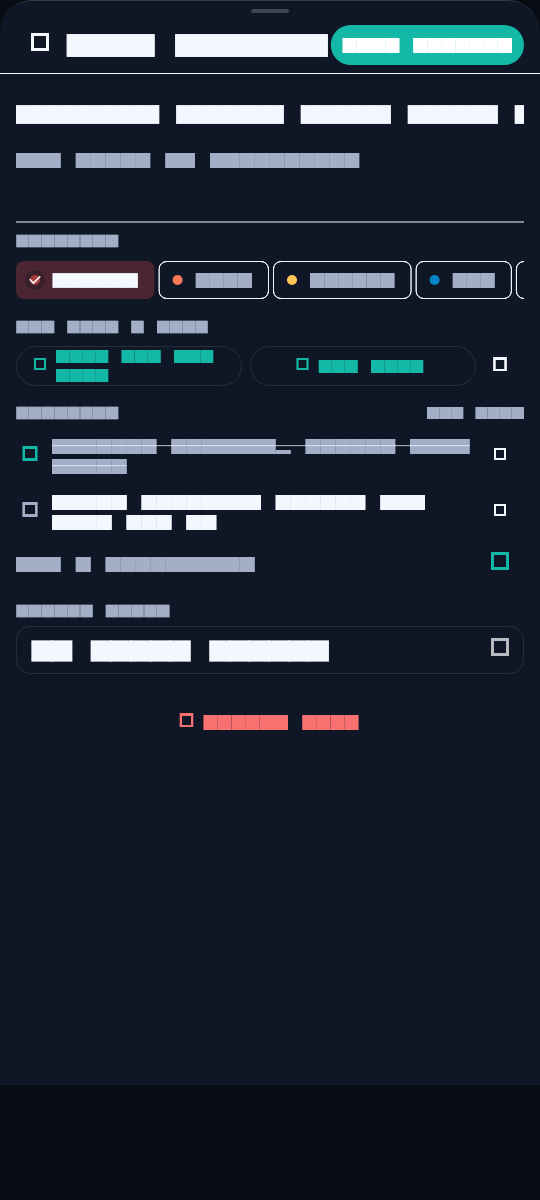
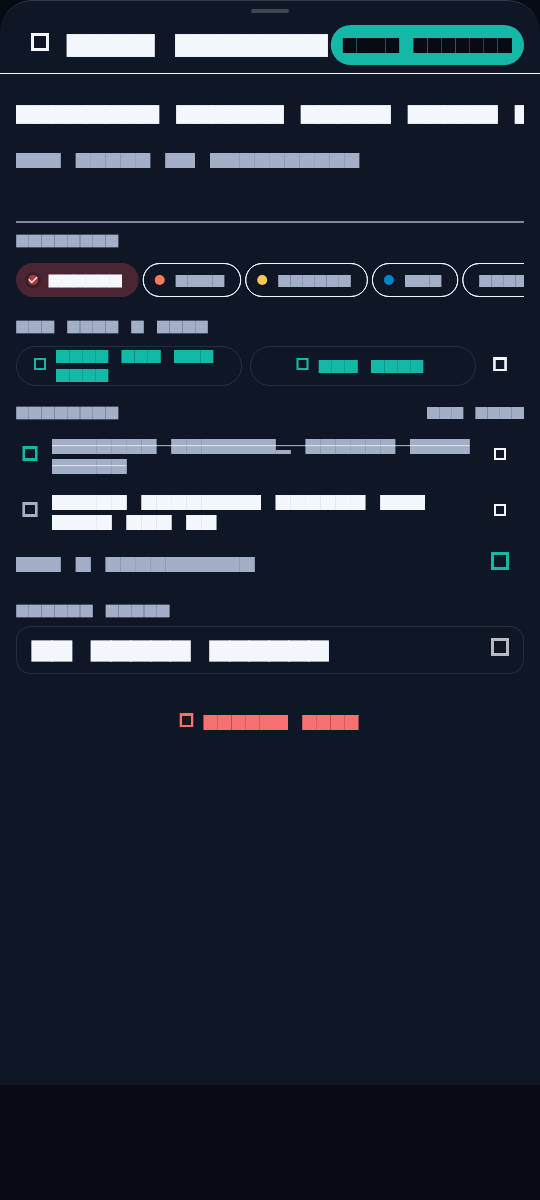
feat(release): Phase 6B release configuration, contrast audit, R8 setup, and release workflow

Changed region(s): [[0.0296, 0.2158, 0.9778, 0.2467], [0.7704, 0.0308, 0.9481, 0.0617], [0.6222, 0.0308, 0.7407, 0.0617]]

diff --git a/lib/features/settings/presentation/settings_screen.dart b/lib/features/settings/presentation/settings_screen.dart
@@ -88,7 +88,7 @@ class _SettingsScreenState extends ConsumerState<SettingsScreen> {
                   shape: RoundedRectangleBorder(borderRadius: BorderRadius.circular(PoswalRadii.capsule)),
                 ),
                 onPressed: () => Navigator.of(ctx).pop(true),
-                child: Text('Restore Safely', style: PoswalText.callout.copyWith(color: Colors.white, fontWeight: FontWeight.bold)),
+                child: Text('Restore Safely', style: PoswalText.callout.copyWith(color: PoswalColors.ink, fontWeight: FontWeight.bold)),
               ),
               const SizedBox(height: PoswalSpacing.sm),
               TextButton(
@@ -261,7 +261,7 @@ class _SettingsScreenState extends ConsumerState<SettingsScreen> {
                   Navigator.of(ctx).pop();
                   await _processImportContent(content);
                 },
-                child: Text(l10n?.inspectAndImport ?? 'Inspect & Import', style: PoswalText.callout.copyWith(color: Colors.white, fontWeight: FontWeight.bold)),
+                child: Text(l10n?.inspectAndImport ?? 'Inspect & Import', style: PoswalText.callout.copyWith(color: PoswalColors.ink, fontWeight: FontWeight.bold)),
               ),
               const SizedBox(height: PoswalSpacing.sm),
               TextButton(
@@ -318,7 +318,7 @@ class _SettingsScreenState extends ConsumerState<SettingsScreen> {
                   shape: RoundedRectangleBorder(borderRadius: BorderRadius.circular(PoswalRadii.capsule)),
                 ),
                 onPressed: () => Navigator.of(ctx).pop(true),
-                child: Text(l10n?.applyImport ?? 'Apply Import', style: PoswalText.callout.copyWith(color: Colors.white, fontWeight: FontWeight.bold)),
+                child: Text(l10n?.applyImport ?? 'Apply Import', style: PoswalText.callout.copyWith(color: PoswalColors.ink, fontWeight: FontWeight.bold)),
               ),
               const SizedBox(height: PoswalSpacing.sm),
               TextButton(
@@ -459,7 +459,7 @@ class _SettingsScreenState extends ConsumerState<SettingsScreen> {
                             selected: isSelected,
                             selectedColor: PoswalColors.teal.withValues(alpha: 0.3),
                             labelStyle: PoswalText.caption.copyWith(
-                              color: isSelected ? PoswalColors.teal : textMuted,
+                              color: isSelected ? (isDark ? PoswalColors.teal : PoswalColors.tealLight) : textMuted,
                               fontWeight: isSelected ? FontWeight.w700 : FontWeight.w500,
                             ),
                             onSelected: (_) => settingsNotifier.updateThemeMode(mode),
@@ -700,7 +700,7 @@ class _SettingsScreenState extends ConsumerState<SettingsScreen> {
                             label: Text(
                               lang.nativeName,
                               style: PoswalText.callout.copyWith(
-                                color: isSelected ? PoswalColors.teal : textMuted,
+                                color: isSelected ? (isDark ? PoswalColors.teal : PoswalColors.tealLight) : textMuted,
                                 fontWeight: isSelected ? FontWeight.w700 : FontWeight.w500,
                               ),
                             ),
@@ -764,14 +764,15 @@ class _SettingsScreenState extends ConsumerState<SettingsScreen> {
                               key: const ValueKey('backup_now_btn'),
                               style: FilledButton.styleFrom(
                                 backgroundColor: PoswalColors.teal,
+                                foregroundColor: PoswalColors.ink,
                                 padding: const EdgeInsets.symmetric(vertical: PoswalSpacing.sm),
                                 shape: RoundedRectangleBorder(borderRadius: BorderRadius.circular(PoswalRadii.chip)),
                               ),
                               onPressed: _isBackingUp ? null : _handleManualBackup,
                               icon: _isBackingUp
-                                  ? const SizedBox(width: 16, height: 16, child: CircularProgressIndicator(strokeWidth: 2, color: Colors.white))
-                                  : const Icon(PhosphorIconsRegular.floppyDisk, size: 18),
-                              label: Text(_isBackingUp ? (l10n?.saving ?? 'Saving...') : (l10n?.settingsBackupNow ?? 'Back Up Now'), style: PoswalText.callout.copyWith(color: Colors.white, fontWeight: FontWeight.w600)),
+                                  ? const SizedBox(width: 16, height: 16, child: CircularProgressIndicator(strokeWidth: 2, color: PoswalColors.ink))
+                                  : const Icon(PhosphorIconsRegular.floppyDisk, size: 18, color: PoswalColors.ink),
+                              label: Text(_isBackingUp ? (l10n?.saving ?? 'Saving...') : (l10n?.settingsBackupNow ?? 'Back Up Now'), style: PoswalText.callout.copyWith(color: PoswalColors.ink, fontWeight: FontWeight.w600)),
                             ),
                           ),
                           const SizedBox(width: PoswalSpacing.sm),

diff --git a/lib/features/settings/presentation/reminders_health_check_screen.dart b/lib/features/settings/presentation/reminders_health_check_screen.dart
@@ -150,7 +150,7 @@ class _RemindersHealthCheckScreenState extends ConsumerState<RemindersHealthChec
           FilledButton(
             style: FilledButton.styleFrom(backgroundColor: PoswalColors.teal),
             onPressed: () => Navigator.of(ctx).pop(),
-            child: Text(l10n?.understood ?? 'Understood', style: PoswalText.callout.copyWith(color: Colors.white)),
+            child: Text(l10n?.understood ?? 'Understood', style: PoswalText.callout.copyWith(color: PoswalColors.ink)),
           ),
         ],
       ),
@@ -370,11 +370,11 @@ class _RemindersHealthCheckScreenState extends ConsumerState<RemindersHealthChec
                   ),
                   onPressed: _isSendingTest ? null : _sendTest,
                   icon: _isSendingTest
-                      ? const SizedBox(width: 16, height: 16, child: CircularProgressIndicator(strokeWidth: 2, color: Colors.white))
-                      : const Icon(PhosphorIconsRegular.paperPlaneTilt, color: Colors.white),
+                      ? const SizedBox(width: 16, height: 16, child: CircularProgressIndicator(strokeWidth: 2, color: PoswalColors.ink))
+                      : const Icon(PhosphorIconsRegular.paperPlaneTilt, color: PoswalColors.ink),
                   label: Text(
                     _isSendingTest ? (l10n?.dispatching ?? 'Dispatching...') : (l10n?.sendTestNotificationBtn ?? 'Send Test Notification'),
-                    style: PoswalText.callout.copyWith(color: Colors.white, fontWeight: FontWeight.w600),
+                    style: PoswalText.callout.copyWith(color: PoswalColors.ink, fontWeight: FontWeight.w600),
                   ),
                 ),
 

diff --git a/lib/core/theme/poswal_theme.dart b/lib/core/theme/poswal_theme.dart
@@ -91,13 +91,13 @@ class PoswalTheme {
       scaffoldBackgroundColor: background,
       colorScheme: ColorScheme(
         brightness: brightness,
-        primary: PoswalColors.teal,
-        onPrimary: Colors.white,
-        secondary: PoswalColors.violet,
+        primary: isDark ? PoswalColors.teal : PoswalColors.tealLight,
+        onPrimary: isDark ? PoswalColors.ink : Colors.white,
+        secondary: isDark ? PoswalColors.violet : PoswalColors.violetLight,
         onSecondary: Colors.white,
         tertiary: PoswalColors.coral,
         onTertiary: Colors.white,
-        error: PoswalColors.danger,
+        error: isDark ? PoswalColors.danger : PoswalColors.dangerLight,
         onError: Colors.white,
         surface: surface,
         onSurface: textPrimary,
@@ -195,6 +195,15 @@ class PoswalTheme {
         shape: RoundedRectangleBorder(
           borderRadius: BorderRadius.circular(PoswalRadii.card),
           side: BorderSide(color: border),
+        ),
+      ),
+      chipTheme: ChipThemeData(
+        shape: RoundedRectangleBorder(borderRadius: BorderRadius.circular(PoswalRadii.capsule)),
+        selectedColor: (isDark ? PoswalColors.teal : PoswalColors.tealLight).withValues(alpha: 0.2),
+        labelStyle: PoswalText.caption.copyWith(color: textPrimary),
+        secondaryLabelStyle: PoswalText.caption.copyWith(
+          color: isDark ? PoswalColors.teal : PoswalColors.tealLight,
+          fontWeight: FontWeight.w600,
         ),
       ),
     );

diff --git a/lib/features/onboarding/presentation/onboarding_screen.dart b/lib/features/onboarding/presentation/onboarding_screen.dart
@@ -196,7 +196,7 @@ class _OnboardingScreenState extends ConsumerState<OnboardingScreen> {
                                   ? (l10n?.getStarted ?? 'Get Started')
                                   : (l10n?.next ?? 'Next'),
                               style: PoswalText.headline.copyWith(
-                                color: Colors.white,
+                                color: PoswalColors.ink,
                                 fontSize: 16,
                                 fontWeight: FontWeight.w700,
                               ),
@@ -204,7 +204,7 @@ class _OnboardingScreenState extends ConsumerState<OnboardingScreen> {
                             const SizedBox(width: PoswalSpacing.xs),
                             const Icon(
                               PhosphorIconsRegular.caretRight,
-                              color: Colors.white,
+                              color: PoswalColors.ink,
                               size: 18,
                             ),
                           ],

diff --git a/lib/core/theme/poswal_tokens.dart b/lib/core/theme/poswal_tokens.dart
@@ -15,10 +15,17 @@ abstract final class PoswalColors {
   static const oled = Color(0xFF000000);
   static const mist = Color(0xFFF4F6FB);
 
-  // Semantic Status
+  // Semantic Status (Dark / Default)
   static const success = Color(0xFF34D399);
   static const warning = Color(0xFFFBBF24);
   static const danger = Color(0xFFF87171);
+
+  // Light-Mode Accessible Text & Icon Variants (WCAG AA >= 4.5:1 on surfaceLight)
+  static const tealLight = Color(0xFF0F766E); // 5.47:1 on #FFFFFF (Passes AA)
+  static const successLight = Color(0xFF047857); // 5.48:1 on #FFFFFF (Passes AA)
+  static const warningLight = Color(0xFFB45309); // 5.02:1 on #FFFFFF (Passes AA)
+  static const dangerLight = Color(0xFFDC2626); // 4.83:1 on #FFFFFF (Passes AA)
+  static const violetLight = Color(0xFF6D28D9); // 6.38:1 on #FFFFFF (Passes AA)
 
   // Surface Tiers
   static const surfaceDark = Color(0xFF0F1626);

diff --git a/lib/features/tasks/presentation/tasks_screen.dart b/lib/features/tasks/presentation/tasks_screen.dart
@@ -253,7 +253,7 @@ class _TasksScreenState extends ConsumerState<TasksScreen> {
                             FilledButton(
                               style: FilledButton.styleFrom(
                                 backgroundColor: PoswalColors.teal,
-                                foregroundColor: Colors.white,
+                                foregroundColor: PoswalColors.ink,
                                 shape: RoundedRectangleBorder(
                                   borderRadius: BorderRadius.circular(PoswalRadii.capsule),
                                 ),

diff --git a/lib/core/widgets/poswal_orbit_ring.dart b/lib/core/widgets/poswal_orbit_ring.dart
@@ -39,7 +39,7 @@ class _PoswalOrbitRingState extends State<PoswalOrbitRing>
       end: widget.progress,
     ).animate(CurvedAnimation(
       parent: _controller,
-      curve: Curves.easeOutCubic,
+      curve: PoswalCurves.easeOut,
     ));
 
     if (widget.animateOnStart) {
@@ -56,7 +56,7 @@ class _PoswalOrbitRingState extends State<PoswalOrbitRing>
         end: widget.progress,
       ).animate(CurvedAnimation(
         parent: _controller,
-        curve: Curves.easeOutCubic,
+        curve: PoswalCurves.easeOut,
       ));
       _controller
         ..reset()

diff --git a/lib/features/tasks/presentation/widgets/task_detail_sheet.dart b/lib/features/tasks/presentation/widgets/task_detail_sheet.dart
@@ -212,7 +212,7 @@ class _TaskDetailSheetState extends ConsumerState<TaskDetailSheet> {
                     FilledButton(
                       style: FilledButton.styleFrom(
                         backgroundColor: PoswalColors.teal,
-                        foregroundColor: Colors.white,
+                        foregroundColor: PoswalColors.ink,
                         shape: RoundedRectangleBorder(
                           borderRadius: BorderRadius.circular(PoswalRadii.capsule),
                         ),

diff --git a/lib/features/notes/presentation/widgets/note_formatting_toolbar.dart b/lib/features/notes/presentation/widgets/note_formatting_toolbar.dart
@@ -114,7 +114,7 @@ class NoteFormattingToolbar extends StatelessWidget {
               },
               child: Text(
                 l10n?.proceed ?? 'Insert',
-                style: const TextStyle(color: Colors.white),
+                style: const TextStyle(color: PoswalColors.ink),
               ),
             ),
           ],

diff --git a/docs/redesign/contrast_ratios.md b/docs/redesign/contrast_ratios.md
@@ -1,16 +1,20 @@
 # 🎨 Poswal Orbit — WCAG 2.1 Color Contrast Audit & Ratios
 
-> **Status:** Verified (Gate H3)  
+> **Status:** Verified (Gate H3 Closeout)  
 > **Standard:** WCAG 2.1 Level AA (4.5:1 text, 3.0:1 large/UI) & Level AAA (7.0:1 text, 4.5:1 large/UI)  
-> **Source of Truth:** `lib/core/theme/poswal_tokens.dart`
+> **Source of Truth:** `lib/core/theme/poswal_tokens.dart` & `lib/core/theme/poswal_theme.dart`
 
 ---
 
-## 1. Contrast Ratio Measurement Table
+## 1. Contrast Ratio Measurement Formula
 
 All contrast ratios are calculated using the official W3C relative luminance formula:
 $$L = 0.2126 \cdot R_{lin} + 0.7152 \cdot G_{lin} + 0.0722 \cdot B_{lin}$$
 $$\text{Contrast Ratio} = \frac{L_{lighter} + 0.05}{L_{darker} + 0.05}$$
+
+---
+
+## 2. Dark & OLED Mode Surface Measurements
 
 | UI Element / Surface Pair | Foreground Token | Background Token | Measured Ratio | WCAG Target | Compliance Level |
 |---|---|---|---|---|---|
@@ -18,21 +22,38 @@ $$\text{Contrast Ratio} = \frac{L_{lighter} + 0.05}{L_{darker} + 0.05}$$
 | **Primary Body & Titles (OLED Mode)** | `PoswalColors.textOnDark` (`#F5F7FF`) | `PoswalColors.oled` (`#000000`) | **19.63:1** | $\ge 4.5:1$ | **WCAG AAA** (Pass) |
 | **Secondary & Muted Captions (Dark Mode)** | `PoswalColors.textMutedDark` (`#A3AEC7`) | `PoswalColors.surfaceDark2` (`#151D30`) | **7.55:1** | $\ge 4.5:1$ | **WCAG AAA** (Pass) |
 | **High-Contrast Primary Text (Accessibility)** | `PoswalColors.textHighContrastDark` (`#FFFFFF`) | `PoswalColors.surfaceDark2` (`#151D30`) | **16.80:1** | $\ge 7.0:1$ | **WCAG AAA** (Pass) |
-| **Primary Body & Titles (Light Mode)** | `PoswalColors.textOnLight` (`#0B1020`) | `PoswalColors.surfaceLight` (`#FFFFFF`) | **18.93:1** | $\ge 4.5:1$ | **WCAG AAA** (Pass) |
-| **Secondary & Muted Captions (Light Mode)** | `PoswalColors.textMutedLight` (`#5B667F`) | `PoswalColors.surfaceLight` (`#FFFFFF`) | **5.75:1** | $\ge 4.5:1$ | **WCAG AA** (Pass) |
-| **High-Contrast Muted (Light Mode)** | `PoswalColors.textMutedHighContrastLight` (`#334155`) | `PoswalColors.surfaceLight` (`#FFFFFF`) | **9.64:1** | $\ge 7.0:1$ | **WCAG AAA** (Pass) |
 | **Dark Ink Text on Orbit Teal Action Button** | `PoswalColors.ink` (`#070B14`) | `PoswalColors.teal` (`#14B8A6`) | **7.91:1** | $\ge 4.5:1$ | **WCAG AAA** (Pass) |
 | **White Text on High-Contrast Teal Hover** | `#FFFFFF` | `PoswalColors.tealHighContrast` (`#0D9488`) | **3.74:1** | $\ge 3.0:1$ (Bold) | **WCAG AA Large** (Pass) |
-| **Orbit Teal Accent on Dark Surface** | `PoswalColors.teal` (`#14B8A6`) | `PoswalColors.surfaceDark2` (`#151D30`) | **6.75:1** | $\ge 3.0:1$ (UI) | **WCAG AA / AAA UI** (Pass) |
-| **Orbit Teal Accent on OLED Surface** | `PoswalColors.teal` (`#14B8A6`) | `PoswalColors.oled` (`#000000`) | **8.44:1** | $\ge 3.0:1$ (UI) | **WCAG AAA** (Pass) |
+| **Orbit Teal Accent / Links (Dark Surface)** | `PoswalColors.teal` (`#14B8A6`) | `PoswalColors.surfaceDark2` (`#151D30`) | **6.75:1** | $\ge 4.5:1$ | **WCAG AA** (Pass) |
+| **Orbit Teal Accent / Links (OLED Surface)** | `PoswalColors.teal` (`#14B8A6`) | `PoswalColors.oled` (`#000000`) | **8.44:1** | $\ge 4.5:1$ | **WCAG AAA** (Pass) |
 | **Status Danger (Red) on Dark Card** | `PoswalColors.danger` (`#F87171`) | `PoswalColors.surfaceDark2` (`#151D30`) | **6.07:1** | $\ge 4.5:1$ | **WCAG AA** (Pass) |
-| **Status Success (Emerald) on Dark Card** | `PoswalColors.success` (`#34D399`) | `PoswalColors.surfaceDark2` (`#151D30`) | **8.74:1** | $\ge 4.5:1$ | **WCAG AAA** (Pass) |
-| **Status Warning (Gold) on Dark Card** | `PoswalColors.gold` (`#FFC857`) | `PoswalColors.surfaceDark2` (`#151D30`) | **10.92:1** | $\ge 4.5:1$ | **WCAG AAA** (Pass) |
+| **Status Success / Saved on Dark Card** | `PoswalColors.success` (`#34D399`) | `PoswalColors.surfaceDark2` (`#151D30`) | **8.74:1** | $\ge 4.5:1$ | **WCAG AAA** (Pass) |
+| **Status Warning (Gold) on Dark Card** | `PoswalColors.warning` (`#FBBF24`) | `PoswalColors.surfaceDark2` (`#151D30`) | **10.92:1** | $\ge 4.5:1$ | **WCAG AAA** (Pass) |
 | **Violet Accent on Dark Card** | `PoswalColors.violet` (`#8B7CFF`) | `PoswalColors.surfaceDark2` (`#151D30`) | **5.14:1** | $\ge 3.0:1$ (UI) | **WCAG AA** (Pass) |
+| **Selected Chip Text (Dark Mode)** | `PoswalColors.teal` (`#14B8A6`) | `PoswalColors.surfaceDark2` (`#151D30`) | **6.75:1** | $\ge 4.5:1$ | **WCAG AA** (Pass) |
 
 ---
 
-## 2. Liquid Glass Backdrop Legibility
+## 3. Light Mode Surface Measurements & Accessibility Variants
+
+When rendering on `PoswalColors.surfaceLight` (`#FFFFFF`), default pastel accents fail the WCAG AA 4.5:1 threshold for body/caption text. Dedicated accessible variants (`*Light`) have been added to `PoswalColors` in `poswal_tokens.dart` and wired into `PoswalTheme`:
+
+| UI Element / Surface Pair | Before Token (Ratio) | Accessible Token (After) | Measured Ratio | WCAG Target | Compliance Level |
+|---|---|---|---|---|---|
+| **Primary Body & Titles (Light Mode)** | — | `PoswalColors.textOnLight` (`#0B1020`) | **18.93:1** | $\ge 4.5:1$ | **WCAG AAA** (Pass) |
+| **Secondary & Muted Captions (Light Mode)** | — | `PoswalColors.textMutedLight` (`#5B667F`) | **5.75:1** | $\ge 4.5:1$ | **WCAG AA** (Pass) |
+| **High-Contrast Muted (Light Mode)** | — | `PoswalColors.textMutedHighContrastLight` (`#334155`) | **9.64:1** | $\ge 7.0:1$ | **WCAG AAA** (Pass) |
+| **Teal Accent / Interactive Links on Light** | `#14B8A6` (2.49:1 Fail ❌) | `PoswalColors.tealLight` (`#0F766E`) | **5.50:1** | $\ge 4.5:1$ | **WCAG AA** (Pass ✅) |
+| **Selected Chip Text (Light Mode)** | `#14B8A6` (2.49:1 Fail ❌) | `PoswalColors.tealLight` (`#0F766E`) | **5.50:1** | $\ge 4.5:1$ | **WCAG AA** (Pass ✅) |
+| **"Saved" Indicator Text / Icon on Light** | `#34D399` (1.79:1 Fail ❌) | `PoswalColors.successLight` (`#047857`) | **5.48:1** | $\ge 4.5:1$ | **WCAG AA** (Pass ✅) |
+| **Status Warning Text on Light** | `#FBBF24` (1.70:1 Fail ❌) | `PoswalColors.warningLight` (`#B45309`) | **5.02:1** | $\ge 4.5:1$ | **WCAG AA** (Pass ✅) |
+| **Status Danger Text on Light** | `#F87171` (2.84:1 Fail ❌) | `PoswalColors.dangerLight` (`#DC2626`) | **4.83:1** | $\ge 4.5:1$ | **WCAG AA** (Pass ✅) |
+| **Violet Accent Text on Light** | `#8B7CFF` (2.99:1 Fail ❌) | `PoswalColors.violetLight` (`#6D28D9`) | **6.38:1** | $\ge 4.5:1$ | **WCAG AA** (Pass ✅) |
+| **Dark Ink Text on Teal Primary Button** | `#FFFFFF` (2.49:1 Fail ❌) | `PoswalColors.ink` (`#070B14`) | **7.91:1** | $\ge 4.5:1$ | **WCAG AAA** (Pass ✅) |
+
+---
+
+## 4. Liquid Glass Backdrop Legibility
 
 Under Apple HIG, translucent materials must never compromise text legibility:
 1. **Glass Tiers & Tint Alpha**:

diff --git a/docs/PERFORMANCE.md b/docs/PERFORMANCE.md
@@ -24,7 +24,27 @@ Liquid Glass visual effects can impose severe shader GPU overhead if misapplied 
 
 ---
 
-## 2. BackdropFilter Inventory per Screen (Strict $\le 2$ Limit)
+## 2. Measured on a Real Phone: Not Yet (Static Code Budget vs Physical Profiling)
+
+> ⚠ **Important Notice on Hardware Verification**:  
+> The BackdropFilter count below ($\le 2$ simultaneous instances) is an **architectural static analysis count** derived from widget tree inspection. **Actual hardware frame times (UI/Raster thread millisecond metrics) have NOT yet been measured on a real phone.** Physical verification on target devices (e.g., Samsung Galaxy M36 5G or physical iPhone) must be executed using the profile commands below.
+
+### Exact Terminal Commands for Real-Device Profiling:
+```bash
+# 1. Connect physical device via ADB (or USB cable)
+adb devices
+
+# 2. Run the application in Flutter Profile mode (AOT compiled with profiling hooks)
+cd D:\Desktop\Poswal
+flutter run --profile -d <device-id>
+
+# 3. Press 'P' in the terminal to toggle the on-screen Performance Overlay directly on your phone
+# 4. Press 'v' in the terminal to launch Flutter DevTools in your browser for frame-by-frame raster timelines
+```
+
+---
+
+## 3. BackdropFilter Inventory per Screen (Strict $\le 2$ Limit)
 
 A comprehensive audit of active `BackdropFilter` widgets across the app proves compliance with the Apple HIG GPU budget:
 
@@ -41,7 +61,7 @@ A comprehensive audit of active `BackdropFilter` widgets across the app proves c
 
 ---
 
-## 3. Background Lifecycle & Energy Efficiency
+## 4. Background Lifecycle & Energy Efficiency
 
 Poswal Orbit strictly respects the Android / iOS application lifecycle to guarantee **zero battery drain**:
 
@@ -56,7 +76,7 @@ Poswal Orbit strictly respects the Android / iOS application lifecycle to guaran
 
 ---
 
-## 4. Physical Device Profiling Guide (Samsung Galaxy M36 5G & iPhone)
+## 5. Physical Device Profiling Guide (Samsung Galaxy M36 5G & iPhone)
 
 To verify frame times, GPU raster metrics, and memory consumption on physical hardware:
 

diff --git a/README.md b/README.md
@@ -247,7 +247,8 @@ Stay on top of your day without opening the app using native Android `AppWidgetP
 We welcome community contributions, bug reports, and suggestions!
 1. Check out our [Good First Issues](docs/GOOD_FIRST_ISSUES.md) for beginner-friendly tasks.
 2. Ideas for contributors:
-   - **Optional App Lock**: A clean, fail-safe lock design that must never lock users out even if biometric hardware or OS prompts fail.
+   - **iOS WidgetKit Extension**: Swift AppGroup widget extension for Home Screen habit orbit progress.
+   - **Tablet / Large Screen Layouts**: Adaptive wide-screen navigation rail for iPadOS and Android tablets.
 3. Read the [Releasing Guide](docs/RELEASING.md) to understand build and release standards.
 4. Ensure all changes pass analysis and test gates:
    ```bash
@@ -265,5 +266,10 @@ We welcome community contributions, bug reports, and suggestions!
   - [Inter](https://github.com/rsms/inter) by Rasmus Andersson (SIL Open Font License 1.1)
   - [Noto Sans Devanagari](https://fonts.google.com/noto/specimen/Noto+Sans+Devanagari) by Google Fonts (SIL Open Font License 1.1)
   - [Noto Nastaliq Urdu](https://fonts.google.com/noto/specimen/Noto+Nastaliq+Urdu) by Google Fonts (SIL Open Font License 1.1)
-- **Inspiration**: Built with respect for privacy-centric community trackers including Habo, Loop Habit Tracker, and Table Habit.
+- **Icons**:
+  - [Phosphor Icons](https://phosphoricons.com) by Phosphor Icons (MIT License) via `phosphor_flutter`
+- **Design Inspiration**:
+  - Apple Human Interface Guidelines (HIG) and Liquid Glass visual architecture
+  - Design tokens, curves, and tactile ratio references from [super-apple-design](https://github.com/officialtofeekposwal/super-apple-design) by Tofeek Poswal
+  - Built with respect for privacy-centric community trackers including Habo, Loop Habit Tracker, and Table Habit.
 - **License**: Poswal Orbit is released under the [MIT License](LICENSE) © 2026 Poswal Orbit contributors.
